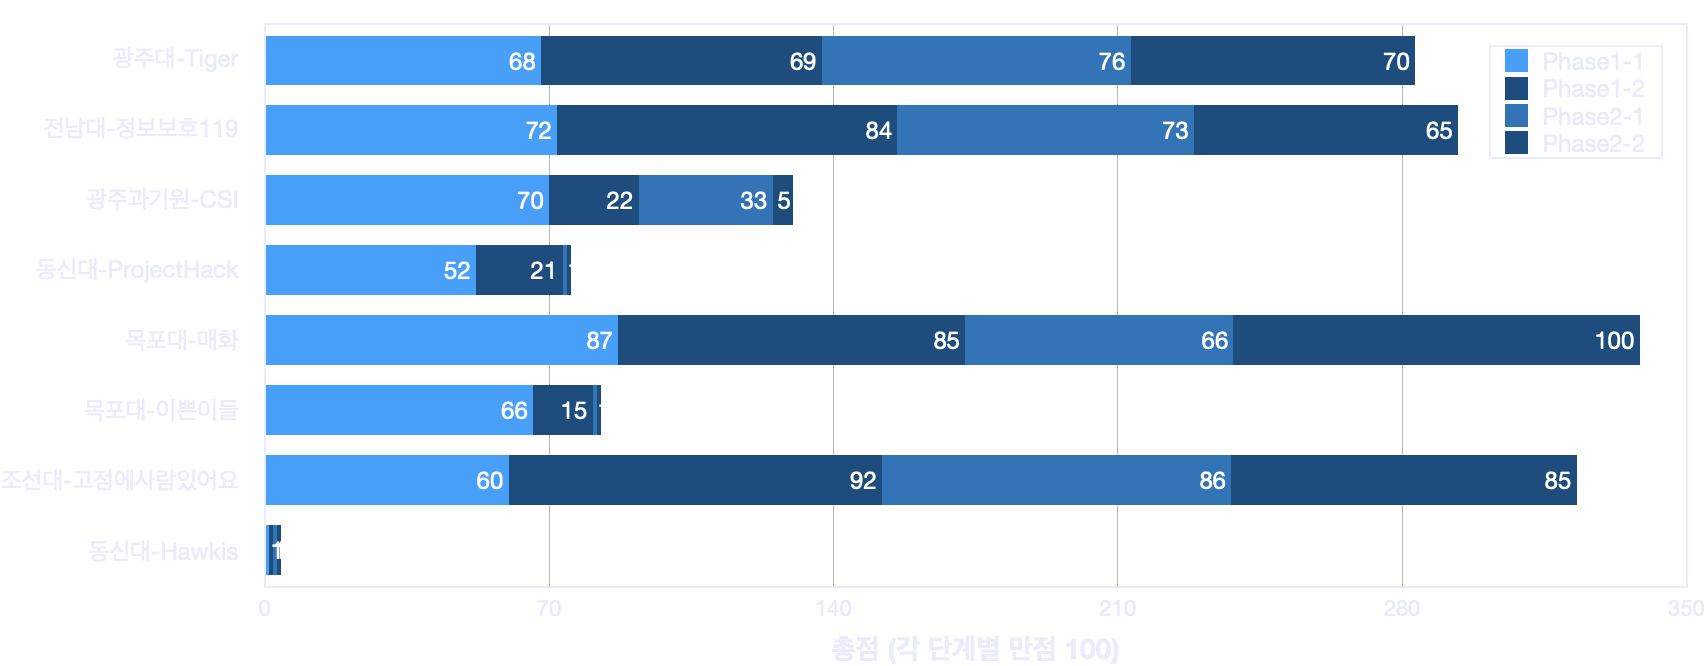
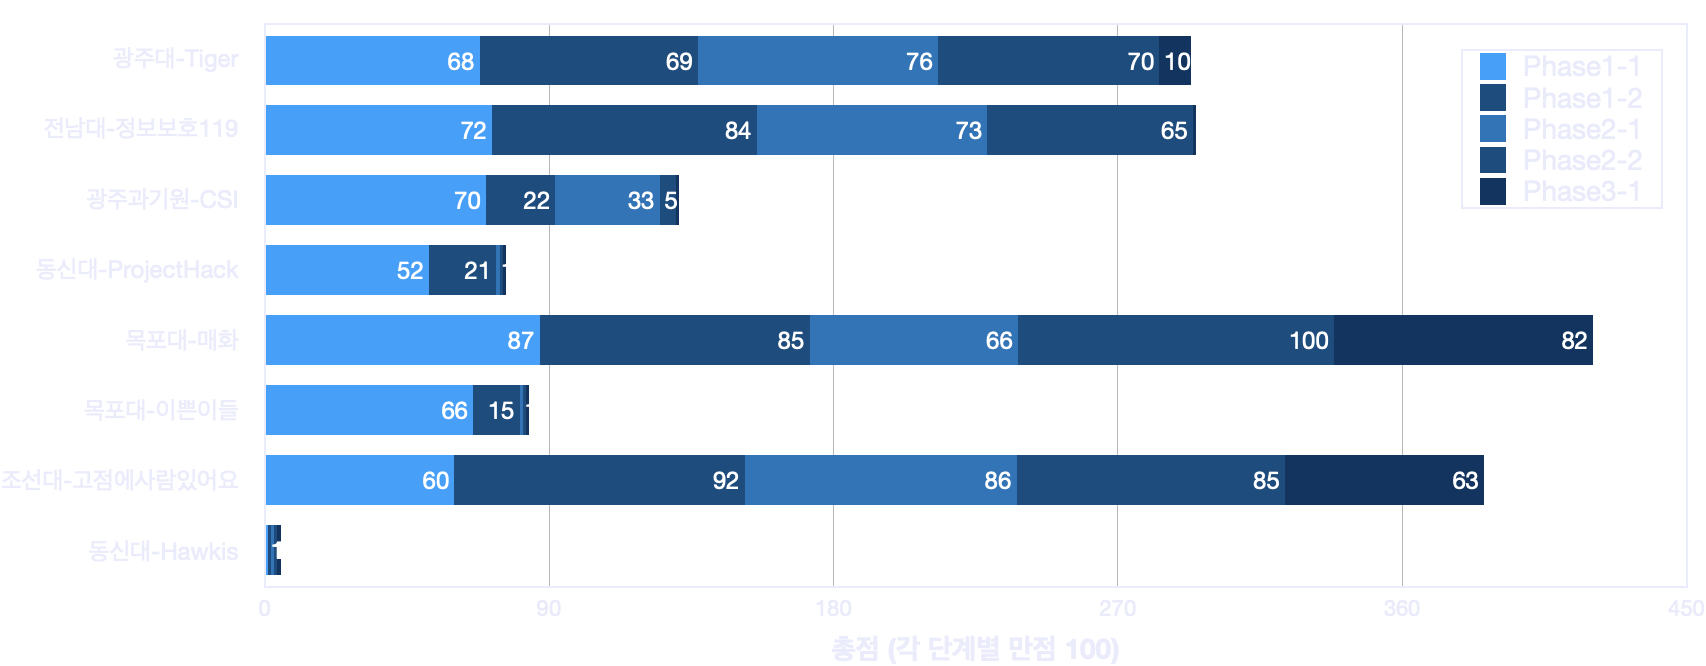
1

diff --git a/pages/updates.md b/pages/updates.md
@@ -9,6 +9,44 @@ navselect: updates
 permalink: /updates
 ---
 
+## Phase 3. 두번째 과제 (22/09/27 및 22/09/29 14:00 ~ 17:00)
+<center>
+지난 3개월간 참 다사다난했던 것 같습니다. <br>
+여러분의 노력 덕분에 다행히 회사는 정상화가 된 것 같습니다! <br>
+<br>
+마지막으로는 그동안 어떤 문제가 있었으며, <br>
+어떤 조치를 취했으며, <br>
+그리고 앞으로 어떻게 해야하는지 <br>
+최종적인 정리와 보고만이 남았습니다. <br>
+<br>
+다행히 회사에서도 이번 사태를 예의 주의하고 있었으며 <br>
+높으신 분들도 큰 관심을 가지고 있네요! <br>
+<br>
+위기는 곧 기회! <br>
+<br>
+발표보고라는 것이 참 부담되고 어려운 자리이긴 하지만 <br>
+우리의 노고와 업적을 인정받을 수 있는 기회임과 동시에 <br>
+회사 내부에 보안에 대한 경각심을 일깨우고 향후 지속적인 지원을 <br>
+약속받을 수 있는 중요한 자리가 될겁니다. <br>
+<br>
+지난 3개월간의 여정에 방점을 찍어봅시다! <br>
+<p></p><hr style="width:50%;"><p></p>
+<b style="font-weight: 700;color:#1154FF"> 이번 HCCC 침해사고에 대한 최종 보고 프리젠테이션을 준비하세요. </b>
+</center>
+
+1. 본 Phase 3-2단계는 상위 4개팀 "1) 목포대-매화, 2)조선대-고점에사람있어요, 3)전남대-정보보호119, 4)광주대-Tiger" 팀만 수행합니다.
+2. 지난 3개월간의 침해사고에 대한 사건 경위, 내용, 피해, 대응 및 후속조치 등 전반적인 내용에 걸친 발표 보고를 준비해주세요. 양식과 템플릿은 자유입니다.
+3. 총 발표시간은 30분, 질의응답 10분이며, 발표 일시 및 장소는 "22년 9월 29일 14-17시, 광주 국립 아시아 문화 전당 (ACC)" 입니다.
+4. 상위 4개팀은 반드시 본 발표경연에 참여하셔야 합니다. 
+5. 발표자료는 9월 27일까지 사전에 제출해주셔야 합니다.
+
+* 발표자료 사전 제출기한: **2022년 9월 27일 화요일 오전 11시 59분.** 
+* 최종 발표 경연: **2022년 9월 29일 14-17시, 광주 국립 아시아 문화 전당 (ACC).** 
+
+* 대회와 관련된 각종 질문들은 별도로 안내해드릴 채널을 통해 해주시면 됩니다.
+
+<p></p><hr style="width:90%;"><p></p>
+
 ## Phase 3. 첫번째 과제 (22/09/01 - 22/09/19)
 <center>
 이제 모든 흑막(?)이 어느정도 드러났습니다. <br>

diff --git a/pages/registration.md b/pages/registration.md
@@ -83,6 +83,16 @@ permalink: /registration
     악성행위 재현(원격접속시도)  
     준비도 전후 비교  
 
+* **Phase 3 첫번째 과제**   
+    네트워크 기본 구성
+    포트포워딩 및 in-out bound 처리
+    방화벽/WAF 구성
+    IDS/IPS 구성
+    마이크로아키텍쳐화
+    의존성 해결
+    로그 유지
+    자동화 완성도
+
 <!-- [새 창에서 보기](https://docs.google.com/forms/d/e/1FAIpQLSdlLooDw08T5JQCSOtVcx1sHs9s7_LcxAWxLJB8djLKivjNBQ/viewform?embedded=true){:target="_blank"}  
 
 <embed id="submit-form" src="https://docs.google.com/forms/d/e/1FAIpQLSdlLooDw08T5JQCSOtVcx1sHs9s7_LcxAWxLJB8djLKivjNBQ/viewform?embedded=true" />
